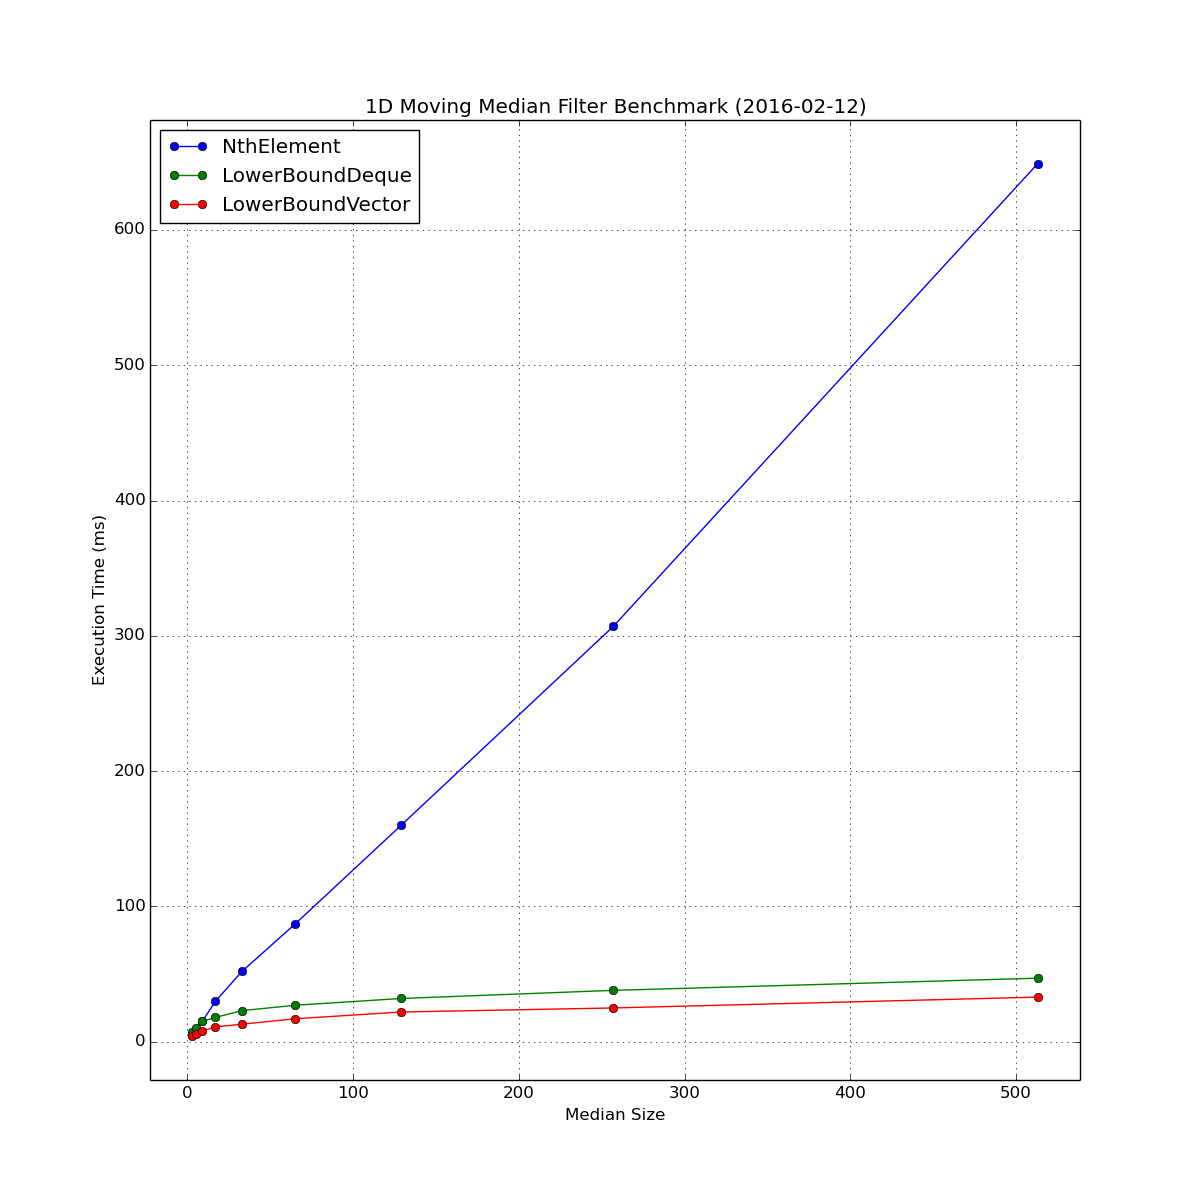
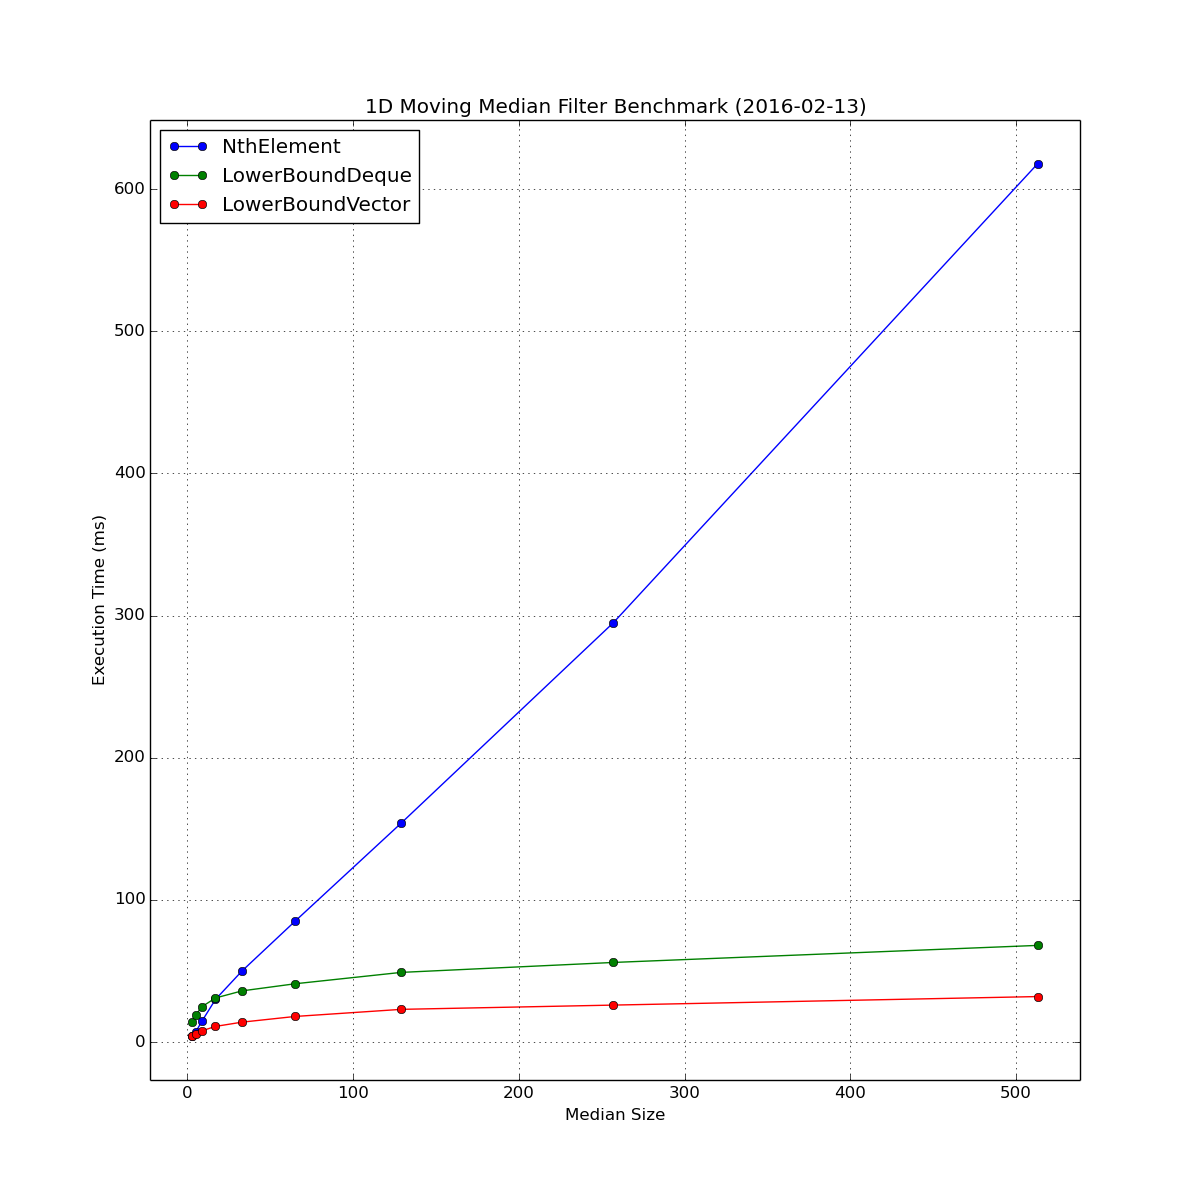
Fixing a bug with hist_ptr

diff --git a/main.cpp b/main.cpp
@@ -167,11 +167,11 @@ public:
         {
             // step 1, remove oldest value from the pool.
 
-            auto old_index = (hist_ptr + 1) % _pool.size();
+            auto last = _history[hist_ptr];
 
-            auto pool_index = std::lower_bound(_pool.begin(), _pool.end(), _history[old_index]);
+            auto last_pos = std::lower_bound(_pool.begin(), _pool.end(), last);
 
-            _pool.erase(pool_index);
+            _pool.erase(last_pos);
 
             // step 2, insert new value into pool
 
@@ -183,7 +183,7 @@ public:
 
             _history[hist_ptr] = x;
 
-            hist_ptr = old_index;
+            hist_ptr = (hist_ptr + 1) % _history.size();
 
             // median is always the middle of the pool
 
@@ -237,11 +237,11 @@ public:
         {
             // step 1, remove oldest value from the pool.
 
-            auto old_index = (hist_ptr + 1) % _pool.size();
+            auto last = _history[hist_ptr];
 
-            auto pool_index = std::lower_bound(_pool.begin(), _pool.end(), _history[old_index]);
+            auto last_pos = std::lower_bound(_pool.begin(), _pool.end(), last);
 
-            _pool.erase(pool_index);
+            _pool.erase(last_pos);
 
             // step 2, insert new value into pool
 
@@ -253,7 +253,7 @@ public:
 
             _history[hist_ptr] = x;
 
-            hist_ptr = old_index;
+            hist_ptr = (hist_ptr + 1) % _history.size();
 
             // median is always the middle of the pool
 
@@ -491,14 +491,14 @@ std::string print(const std::string & in, unsigned width, Alignment align = left
 }
 
 
-
-int main(int argc, char ** argv)
+template <class T>
+void run_test()
 {
     std::vector<unsigned> window_sizes = {3, 5, 9, 17, 33, 65, 129, 257, 513};
 
     using std::cout;
 
-    using Type = float;
+    using Type = T;
 
     auto tname = type_string<Type>();
 
@@ -539,6 +539,88 @@ int main(int argc, char ** argv)
         }
 
         cout << "\n";
+    }
+}
+
+
+
+int main(int argc, char ** argv)
+{
+    std::vector<std::string> arguments;
+
+    for(int i = 1; i < argc; ++i)
+    {
+        arguments.push_back(std::string(argv[i]));
+    }
+
+    // default
+
+    if(arguments.empty())
+    {
+        arguments.push_back("--float");
+    }
+
+    //-------------------------------------------------------------------------
+    // handle command line arguments
+
+    for(auto & arg : arguments)
+    {
+        if(arg == "-h" || arg == "--help")
+        {
+            std::cout << R"xxx(
+usage: main OPTIONS
+
+Options:
+
+    -h|--help    Displays this help message
+    --short      Runs the benchmark using short type
+    --int        Runs the benchmark using int type
+    --long-long  Runs the benchmark using long long type
+    --float      Runs the benchmark using float type
+    --double     Runs the benchmark using double type
+
+)xxx"
+            << "\n";
+
+            return 1;
+        }
+
+        else
+        if(arg == "--short")
+        {
+            run_test<short>();
+            break;
+        }
+        else
+        if(arg == "--int")
+        {
+            run_test<int>();
+            break;
+        }
+        else
+        if(arg == "--long-long")
+        {
+            run_test<long long>();
+            break;
+        }
+        else
+        if(arg == "--float")
+        {
+            run_test<float>();
+            break;
+        }
+        else
+        if(arg == "--double")
+        {
+            run_test<double>();
+            break;
+        }
+
+        else
+        {
+            std::cerr << "unknown option '" << arg << "'\n";
+            return 1;
+        }
     }
 
     return 0;

diff --git a/README.rst b/README.rst
@@ -23,7 +23,22 @@ How to execute benchmark
 
 .. code-block:: bash
 
-    ./main
+    ./main --help
+
+    usage: main OPTIONS
+
+    Options:
+
+        -h|--help    Displays this help message
+        --short      Runs the benchmark using short type
+        --int        Runs the benchmark using int type
+        --long-long  Runs the benchmark using long long type
+        --float      Runs the benchmark using float type
+        --double     Runs the benchmark using double type
+
+.. code-block:: bash
+
+    ./main --float
 
 
 Current Results
@@ -38,15 +53,15 @@ Current Results
         n iterations  = 15
     TABLE:
           Window          NthElement      LowerBoundDeque  LowerBoundVector
-             3                 4                 7                 4
-             5                 7                10                 6
-             9                15                14                 8
-            17                30                18                10
-            33                52                23                13
-            65                87                27                17
-            129               159               32                21
-            257               307               38                25
-            513               649               47                31
+             3                 4                14                 4
+             5                 7                19                 6
+             9                15                25                 8
+            17                30                31                11
+            33                50                36                14
+            65                85                41                18
+            129               154               49                23
+            257               295               56                26
+            513               618               68                32
 
 
 All Stats Plotted
